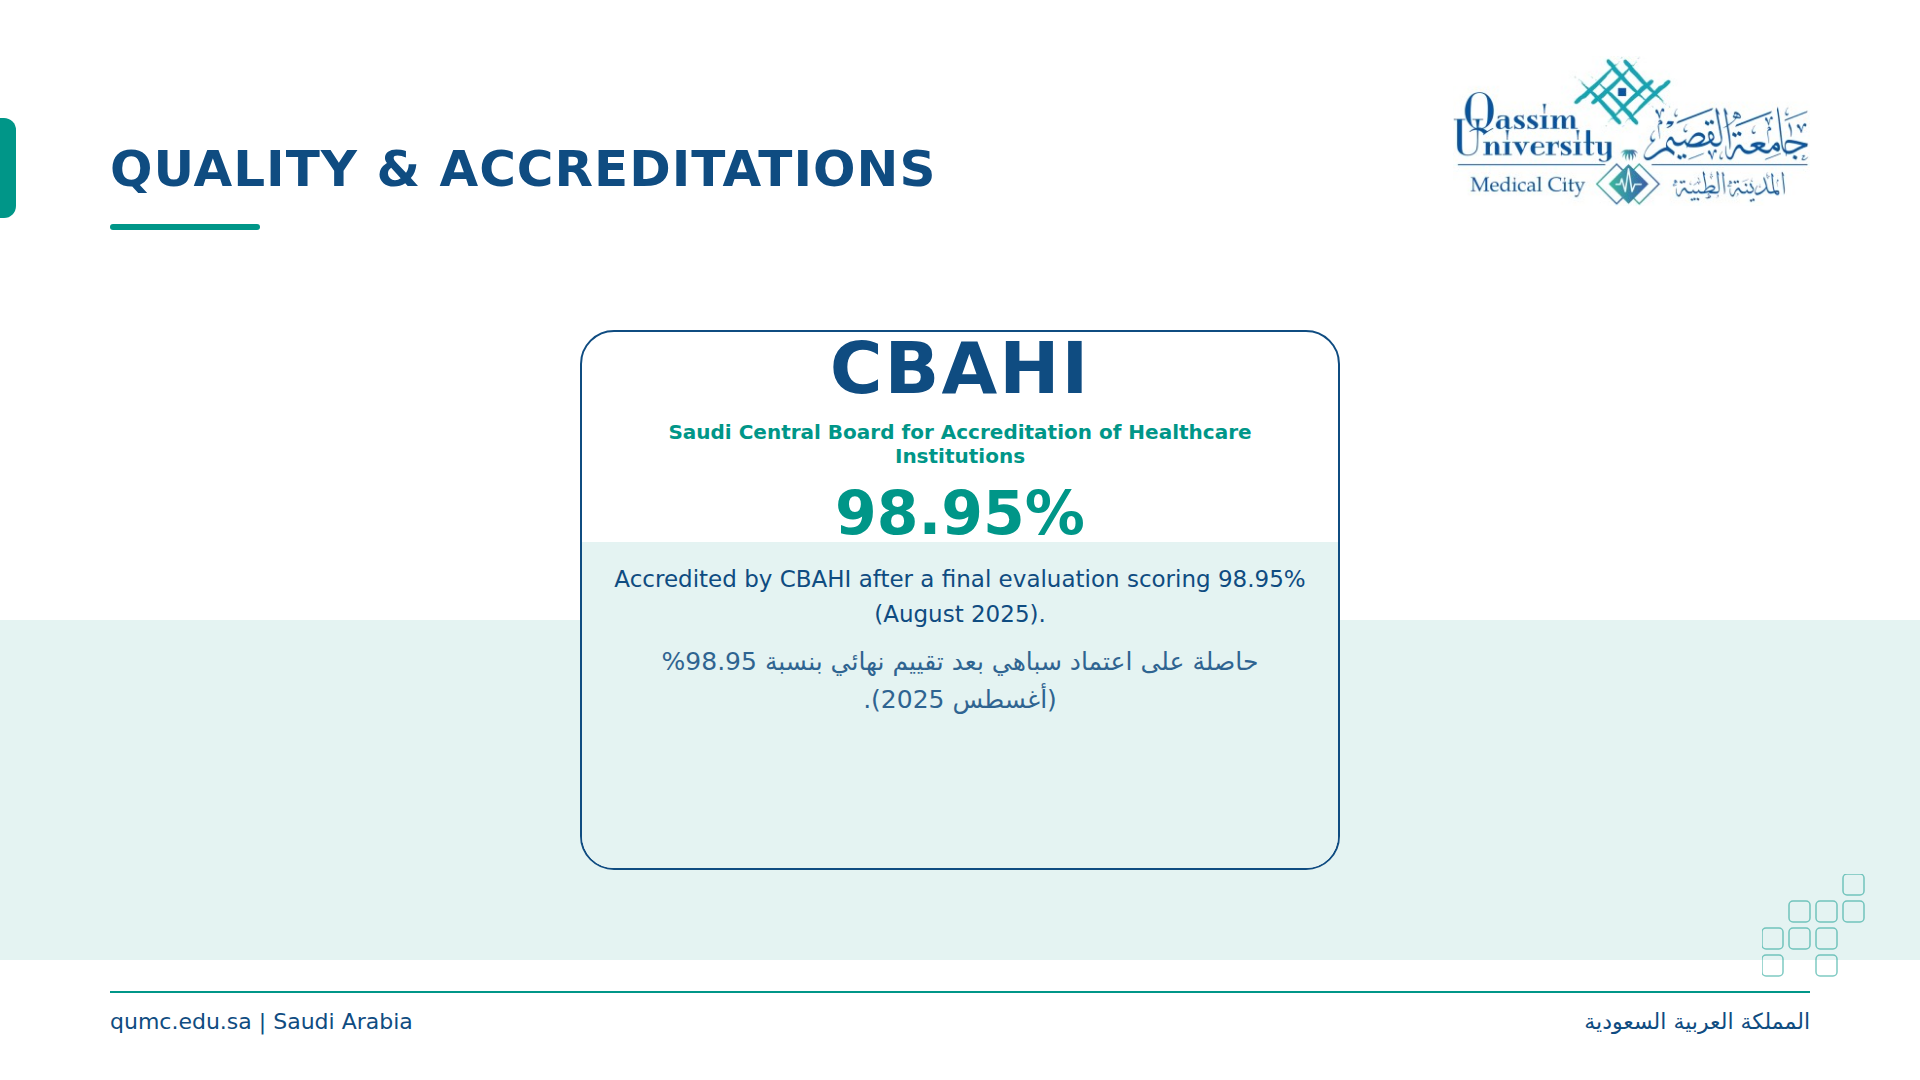
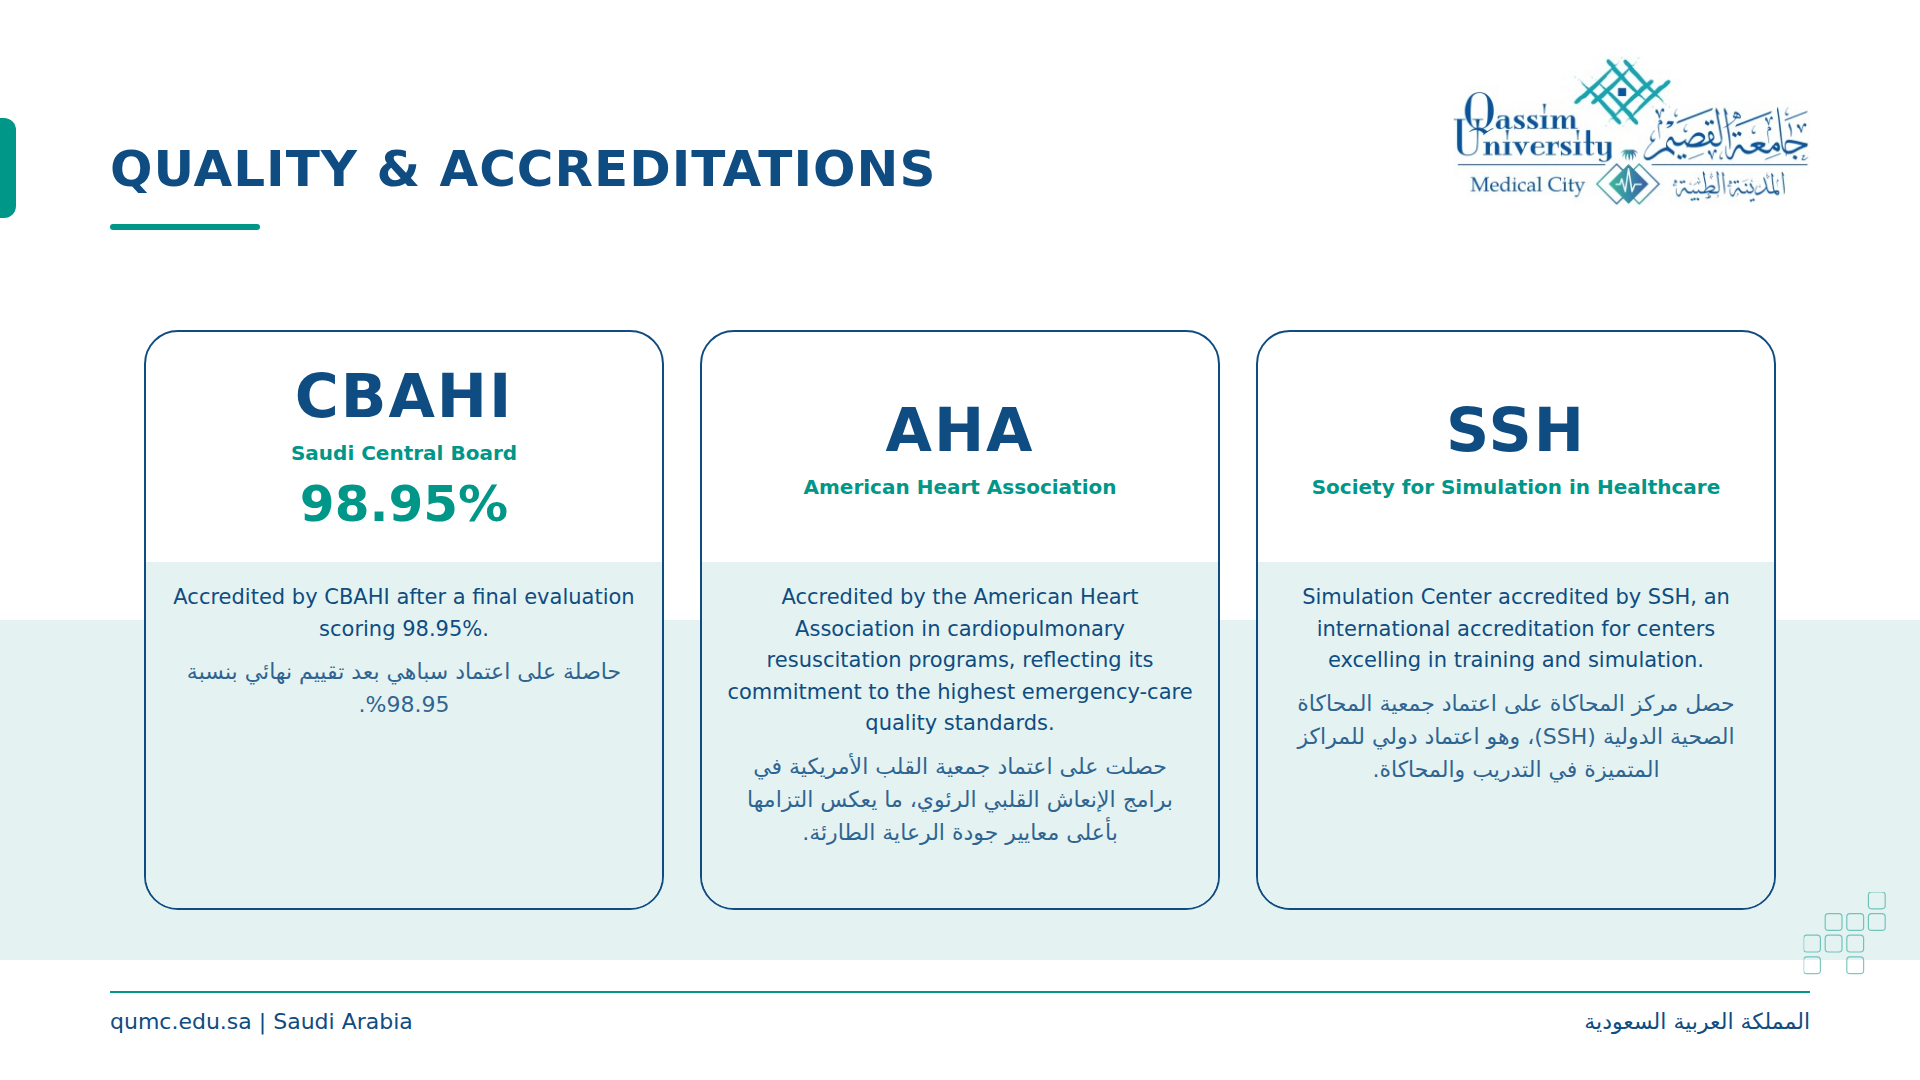
feat(qumc): Our Hospital video and updated Accreditations image
- Our Hospital page plays the QUMC video (YroBXrQ-Vb4)
- Accreditations image now shows CBAHI, AHA and SSH

diff --git a/src/app/components/AboutUs.tsx b/src/app/components/AboutUs.tsx
@@ -760,7 +760,7 @@ const getSections = (themeId: string, isRTL: boolean, locale: string): AboutSect
     id: "hospital",
     title: themeId === "dallah" ? "About Dallah" : "Our Hospital",
     titleKey: themeId === "dallah" ? "about.aboutDallah" : "about.ourHospital",
-    video: themeId === "burjeel" ? "OH71A4YxCG4" : themeId === "imc" ? imcVideo : themeId === "careinn" ? (locale === "ar" ? "5ZQofr0sVn4" : "pbnYEIewk6Q") : themeId === "caremed" ? "HW7Od_8C3_I" : themeId === "dallah" ? "JPgxKaOQf3s" : themeId === "prime" ? "qM3E7ALQ4TM" : themeId === "kauh" ? "DlQlpgq8Z0s" : themeId === "andalusia" ? "_YdW8et9WSw" : "4VXy7_qn608",
+    video: themeId === "burjeel" ? "OH71A4YxCG4" : themeId === "imc" ? imcVideo : themeId === "careinn" ? (locale === "ar" ? "5ZQofr0sVn4" : "pbnYEIewk6Q") : themeId === "caremed" ? "HW7Od_8C3_I" : themeId === "dallah" ? "JPgxKaOQf3s" : themeId === "prime" ? "qM3E7ALQ4TM" : themeId === "kauh" ? "DlQlpgq8Z0s" : themeId === "andalusia" ? "_YdW8et9WSw" : themeId === "qumc" ? "YroBXrQ-Vb4" : "4VXy7_qn608",
   },
   {
     id: "dna",
